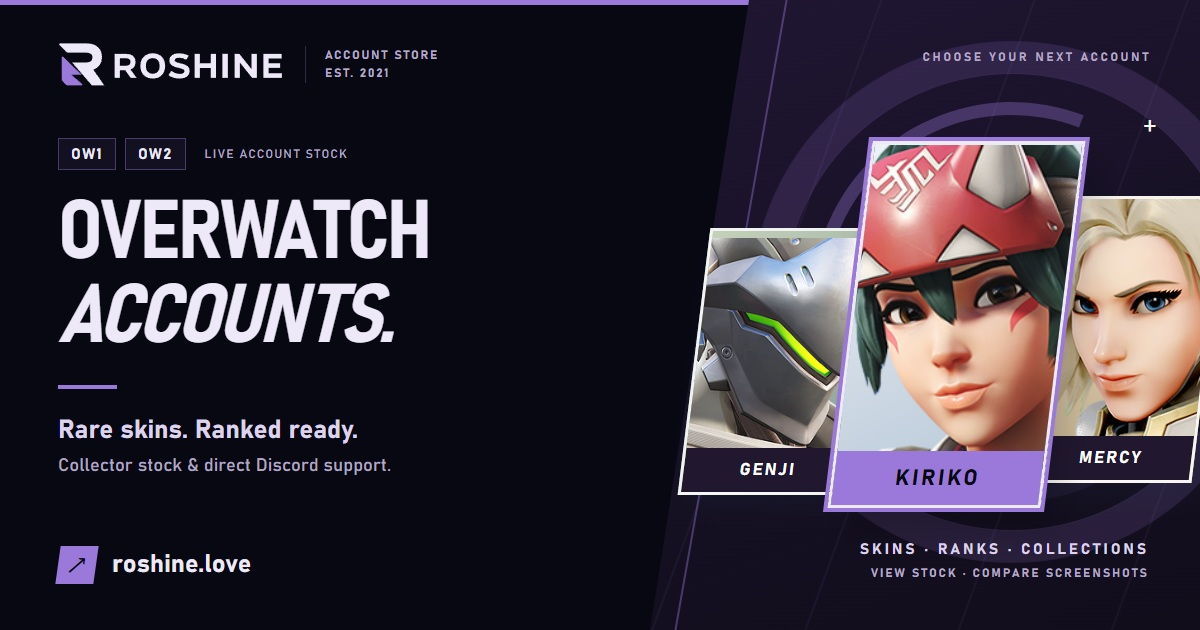
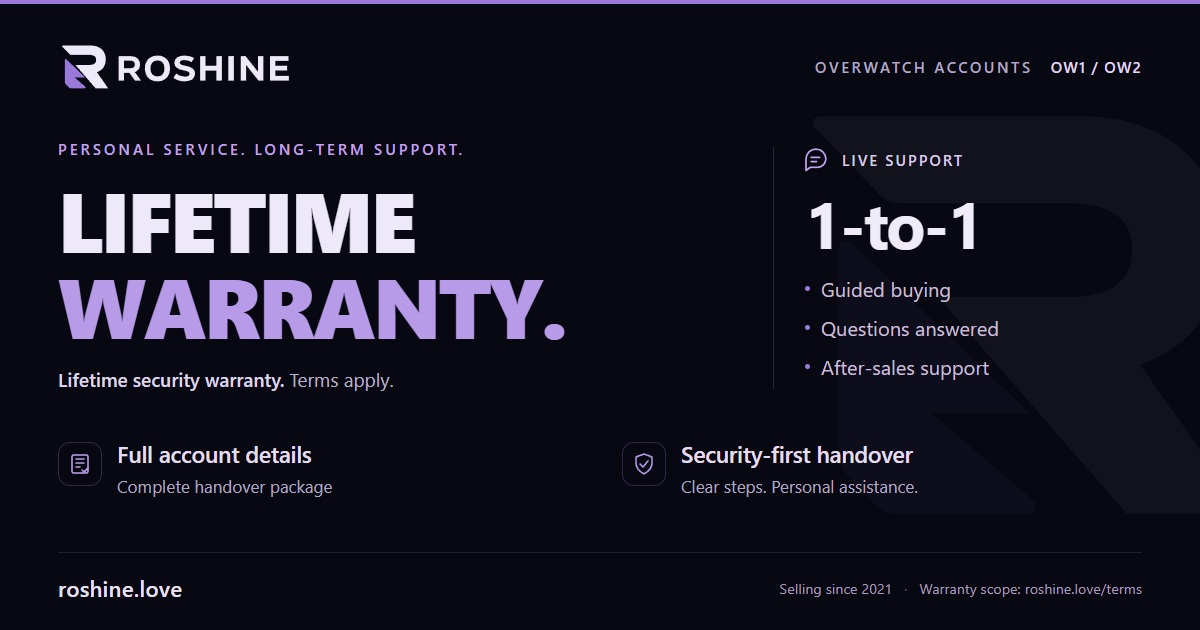
Publish service-first preview with lifetime warranty and one-to-one support

diff --git a/tools/social-card.html b/tools/social-card.html
@@ -2,71 +2,66 @@
 <html lang="en">
 <head>
 <meta charset="utf-8">
-<title>Roshine social preview artwork</title>
+<meta name="robots" content="noindex">
+<title>Roshine — personal service, lifetime security warranty</title>
 <style>
-* { box-sizing:border-box; }
-html,body { width:1200px; height:630px; margin:0; overflow:hidden; }
-body { background:#080813; color:#ede9f8; font-family:Bahnschrift,"Arial Narrow",Arial,sans-serif; }
-.art { position:relative; width:1200px; height:630px; overflow:hidden; }
-.edge { position:absolute; top:0; left:0; right:0; height:5px; background:#9b79db; }
-.header { position:absolute; left:55px; top:41px; display:flex; align-items:center; gap:15px; z-index:4; }
-.logo { width:228px; height:auto; object-fit:contain; }
-.wordmark { font-size:29px; letter-spacing:1.6px; font-weight:800; }
-.header small { border-left:1px solid #9b79db45; padding-left:19px; margin-left:7px; color:#b6a9c8; font-size:12px; line-height:1.55; font-weight:650; letter-spacing:1.8px; }
-.copy { position:absolute; top:138px; left:58px; z-index:4; }
-.versions { display:flex; align-items:center; gap:9px; margin-bottom:22px; }
-.version { padding:7px 12px 5px; border:1px solid #9b79db66; background:#9b79db12; font-size:15px; font-weight:700; letter-spacing:1.5px; }
-.versions .note { color:#b6a9c8; font-size:12px; letter-spacing:1.4px; margin-left:10px; }
-h1 { margin:0; font-size:82px; font-weight:900; font-stretch:condensed; letter-spacing:-1.8px; line-height:1.03; }
-h1 span { display:block; }
-h1 .second { font-style:italic; }
-.underline { margin-top:24px; width:59px; height:4px; background:#9b79db; }
-.lead { margin:26px 0 9px; color:#ddd3ed; font-size:26px; font-weight:650; }
-.detail { color:#b2a7c2; font-size:18px; margin:0; letter-spacing:.15px; }
-.footer { position:absolute; bottom:46px; left:58px; z-index:4; display:flex; align-items:center; gap:16px; }
-.arrow { display:grid; place-items:center; width:38px; height:38px; background:#9b79db; color:#080813; font-size:29px; line-height:1; transform:skewX(-8deg); }
-.domain { font-size:25px; letter-spacing:.3px; font-weight:700; }
-.stage { position:absolute; top:0; right:0; width:550px; height:630px; clip-path:polygon(18% 0,100% 0,100% 100%,0 100%); background:linear-gradient(160deg,#201633,#151022 62%,#110d1b); }
-.stage::before { content:""; position:absolute; inset:0; opacity:.12; background:repeating-linear-gradient(110deg,transparent 0 72px,rgba(155,121,219,.55) 73px 74px,transparent 75px 144px); }
-.stage::after { content:""; position:absolute; top:0; bottom:0; left:80px; width:2px; background:#9b79db66; transform:skewX(-10deg); }
-.arc { position:absolute; width:458px; height:458px; right:-41px; top:73px; border:1px solid #9b79db33; border-radius:50%; box-shadow:0 0 0 31px #9b79db08,0 0 0 32px #9b79db22; }
-.arc::after { content:""; position:absolute; inset:28px; border:13px solid #9b79db14; border-top-color:#9b79db55; border-right-color:transparent; border-radius:50%; transform:rotate(-24deg); }
-.stage-label { position:absolute; top:50px; right:49px; color:#b6a9c8; font-size:12px; font-weight:700; letter-spacing:2.7px; }
-.roster { position:absolute; width:515px; height:430px; top:137px; right:0; z-index:3; }
-.hero { position:absolute; overflow:hidden; transform:skewX(-7deg); border:3px solid rgba(255,255,255,.86); box-shadow:10px 15px 25px rgba(32,56,81,.12); }
-.hero img { position:absolute; object-fit:cover; transform:skewX(7deg); }
-.hero .name { position:absolute; bottom:0; left:0; width:100%; background:#21182f; color:white; text-align:center; font-size:17px; font-weight:800; letter-spacing:2px; padding:13px 0 11px; }
-.genji { left:9px; top:91px; width:174px; height:267px; background:linear-gradient(135deg,#c4d1ba,#899f97); }
-.genji img { width:228px; height:228px; left:-34px; top:7px; }
-.mercy { right:-9px; top:59px; width:168px; height:287px; background:linear-gradient(135deg,#ecdabc,#b9a684); }
-.mercy img { width:248px; height:248px; left:-34px; top:-1px; }
-.kiriko { left:165px; top:4px; width:213px; height:367px; background:linear-gradient(155deg,#edf2f6,#b4c4d5); border-color:#eee9f8; box-shadow:0 0 0 4px #9b79db,16px 26px 32px rgba(0,0,0,.19); z-index:4; }
-.kiriko img { width:324px; height:324px; left:-49px; top:1px; }
-.kiriko .name { background:#9b79db; color:#080813; font-size:22px; letter-spacing:2.8px; padding:15px 0 13px; }
-.corner { position:absolute; right:51px; bottom:45px; color:#b6a9c8; text-align:right; font-size:12px; font-weight:650; line-height:1.8; letter-spacing:2px; z-index:4; }
-.corner strong { display:block; color:#ddd3ed; font-size:15px; letter-spacing:3px; }
-.cross { position:absolute; right:43px; top:110px; color:#fff; font-size:28px; font-weight:300; }
+* { box-sizing: border-box; }
+html, body { width: 1200px; height: 630px; margin: 0; overflow: hidden; }
+body { background: #080813; color: #ede9f8; font-family: "Segoe UI", Arial, sans-serif; }
+.art { position: relative; isolation: isolate; width: 1200px; height: 630px; overflow: hidden; }
+.edge { position: absolute; inset: 0 0 auto; height: 4px; background: #9b79db; }
+.watermark { position: absolute; z-index: -1; width: 470px; height: 470px; right: -60px; top: 80px; opacity: .045; }
+.header { position: absolute; top: 43px; left: 58px; right: 58px; height: 48px; display: flex; align-items: center; justify-content: space-between; }
+.logo { width: 232px; height: auto; display: block; }
+.category { color: #b3a9c5; font-size: 15px; font-weight: 600; letter-spacing: 2.6px; }
+.category span { color: #e2d7f3; margin-left: 18px; letter-spacing: 1.2px; }
+.headline { position: absolute; left: 58px; top: 139px; width: 670px; }
+.eyebrow { margin: 0 0 17px; color: #c1a3ee; font-size: 15px; font-weight: 600; letter-spacing: 3px; }
+h1 { margin: 0; color: #eee9f9; font-size: 84px; font-weight: 800; line-height: 1.02; letter-spacing: -2.8px; }
+h1 span { display: block; }
+h1 .accent { color: #b89be8; }
+.scope { margin: 19px 0 0; color: #b9b0c7; font-size: 19px; line-height: 1.4; }
+.scope strong { font-weight: 500; color: #ded5ea; }
+.support { position: absolute; left: 773px; top: 147px; width: 369px; height: 242px; border-left: 1px solid #9b79db40; padding-left: 31px; }
+.support-top { display: flex; align-items: center; gap: 12px; margin-bottom: 17px; }
+.support-top svg { width: 25px; height: 25px; color: #c1a3ee; fill: none; stroke: currentColor; stroke-width: 1.65; stroke-linecap: round; stroke-linejoin: round; }
+.support-top span { color: #d9ccea; font-size: 15px; font-weight: 600; letter-spacing: 2px; }
+.one-to-one { color: #f0ebf9; font-size: 64px; font-weight: 700; letter-spacing: -2px; line-height: 1.05; margin: 0 0 19px; }
+.support-list { margin: 0; padding: 0; list-style: none; display: grid; gap: 12px; }
+.support-list li { display: flex; align-items: center; gap: 11px; color: #c9bfd7; font-size: 20px; line-height: 1.35; }
+.support-list li::before { content: ""; width: 5px; height: 5px; flex-shrink: 0; border-radius: 50%; background: #9b79db; }
+.features { position: absolute; left: 58px; right: 58px; top: 442px; display: grid; grid-template-columns: 1fr 1fr; gap: 44px; }
+.feature { display: flex; align-items: flex-start; gap: 15px; }
+.feature-icon { display: grid; place-items: center; width: 44px; height: 44px; flex-shrink: 0; border: 1px solid #9b79db45; border-radius: 12px; color: #b89be8; }
+.feature-icon svg { width: 24px; height: 24px; fill: none; stroke: currentColor; stroke-width: 1.6; stroke-linecap: round; stroke-linejoin: round; }
+.feature h2 { margin: -2px 0 6px; color: #e5ddef; font-size: 23px; font-weight: 600; line-height: 1.25; letter-spacing: -.3px; }
+.feature p { margin: 0; color: #b2a7c1; font-size: 17px; line-height: 1.4; }
+.footer { position: absolute; left: 58px; right: 58px; bottom: 27px; padding-top: 20px; border-top: 1px solid #a186c429; display: flex; align-items: center; justify-content: space-between; }
+.domain { color: #e9e1f3; font-size: 22px; font-weight: 600; letter-spacing: .3px; }
+.footer-note { color: #a89bb9; font-size: 14px; letter-spacing: .15px; }
+.footer-note span { margin: 0 12px; color: #635276; }
 </style>
 </head>
 <body>
-<main class="art">
-  <div class="edge"></div>
-  <header class="header"><img class="logo" src="../assets/roshine-wordmark.svg" alt="Roshine"><small>ACCOUNT STORE<br>EST. 2021</small></header>
-  <div class="copy">
-    <div class="versions"><span class="version">OW1</span><span class="version">OW2</span><span class="note">LIVE ACCOUNT STOCK</span></div>
-    <h1><span>OVERWATCH</span><span class="second">ACCOUNTS.</span></h1>
-    <div class="underline"></div>
-    <p class="lead">Rare skins. Ranked ready.</p>
-    <p class="detail">Collector stock &amp; direct Discord support.</p>
-  </div>
-  <div class="stage"><div class="arc"></div><span class="stage-label">CHOOSE YOUR NEXT ACCOUNT</span><span class="cross">+</span></div>
-  <div class="roster">
-    <div class="hero genji"><img src="../assets/social/genji.png" alt=""><span class="name">GENJI</span></div>
-    <div class="hero mercy"><img src="../assets/social/mercy.png" alt=""><span class="name">MERCY</span></div>
-    <div class="hero kiriko"><img src="../assets/social/kiriko.png" alt=""><span class="name">KIRIKO</span></div>
-  </div>
-  <div class="footer"><span class="arrow">↗</span><span class="domain">roshine.love</span></div>
-  <div class="corner"><strong>SKINS · RANKS · COLLECTIONS</strong>VIEW STOCK · COMPARE SCREENSHOTS</div>
+<main class="art" aria-label="Roshine Overwatch account store: lifetime security warranty, live one-to-one support, full account details and security-first handover">
+  <div class="edge" aria-hidden="true"></div>
+  <img class="watermark" src="../assets/logo.svg" alt="" aria-hidden="true">
+  <header class="header"><img class="logo" src="../assets/roshine-wordmark.svg" alt="Roshine"><div class="category">OVERWATCH ACCOUNTS<span>OW1 / OW2</span></div></header>
+  <section class="headline">
+    <p class="eyebrow">PERSONAL SERVICE. LONG-TERM SUPPORT.</p>
+    <h1><span>LIFETIME</span><span class="accent">WARRANTY.</span></h1>
+    <p class="scope"><strong>Lifetime security warranty.</strong> Terms apply.</p>
+  </section>
+  <section class="support" aria-label="Live one-to-one support">
+    <div class="support-top"><svg viewBox="0 0 24 24" aria-hidden="true"><path d="M20 11.5a8 8 0 0 1-8 8H5l-4 3V11.5a9.5 9.5 0 0 1 19 0Z"/><path d="M6 10h8M6 14h5"/></svg><span>LIVE SUPPORT</span></div>
+    <p class="one-to-one">1-to-1</p>
+    <ul class="support-list"><li>Guided buying</li><li>Questions answered</li><li>After-sales support</li></ul>
+  </section>
+  <section class="features" aria-label="Account handover">
+    <div class="feature"><span class="feature-icon"><svg viewBox="0 0 24 24" aria-hidden="true"><rect x="4" y="3" width="16" height="18" rx="2"/><path d="M8 7h8M8 11h8M8 15h4m2 3 2 2 4-4"/></svg></span><div><h2>Full account details</h2><p>Complete handover package</p></div></div>
+    <div class="feature"><span class="feature-icon"><svg viewBox="0 0 24 24" aria-hidden="true"><path d="m12 2 8 3v6c0 5-3.5 8.5-8 11-4.5-2.5-8-6-8-11V5Z"/><path d="m8 12 3 3 5-6"/></svg></span><div><h2>Security-first handover</h2><p>Clear steps. Personal assistance.</p></div></div>
+  </section>
+  <footer class="footer"><span class="domain">roshine.love</span><span class="footer-note">Selling since 2021<span>·</span>Warranty scope: roshine.love/terms</span></footer>
 </main>
 </body>
 </html>

diff --git a/index.html b/index.html
@@ -19,17 +19,17 @@
   <meta property="og:locale" content="en_US" />
   <meta property="og:title" content="Overwatch Accounts | Roshine" />
   <meta property="og:description" content="OW1 &amp; OW2 accounts, rare skins and ranked-ready stock. Browse screenshots and contact us on Discord." />
-  <meta property="og:image" content="https://roshine.love/assets/og-social-v3.jpg" />
-  <meta property="og:image:secure_url" content="https://roshine.love/assets/og-social-v3.jpg" />
+  <meta property="og:image" content="https://roshine.love/assets/og-social-v4.jpg" />
+  <meta property="og:image:secure_url" content="https://roshine.love/assets/og-social-v4.jpg" />
   <meta property="og:image:type" content="image/jpeg" />
   <meta property="og:image:width" content="1200" />
   <meta property="og:image:height" content="630" />
-  <meta property="og:image:alt" content="Roshine Overwatch account store — OW1 and OW2 inventory, rare skins and guided handover" />
+  <meta property="og:image:alt" content="Roshine — lifetime security warranty, live one-to-one buying and after-sales support, full account details and security-first handover. Terms apply." />
   <meta name="twitter:card" content="summary_large_image" />
   <meta name="twitter:title" content="Overwatch Accounts | Roshine" />
   <meta name="twitter:description" content="OW1 &amp; OW2 accounts, rare skins and ranked-ready stock. Browse screenshots and contact us on Discord." />
-  <meta name="twitter:image" content="https://roshine.love/assets/og-social-v3.jpg" />
-  <meta name="twitter:image:alt" content="Roshine Overwatch account store — OW1 and OW2 inventory, rare skins and guided handover" />
+  <meta name="twitter:image" content="https://roshine.love/assets/og-social-v4.jpg" />
+  <meta name="twitter:image:alt" content="Roshine — lifetime security warranty, live one-to-one buying and after-sales support, full account details and security-first handover. Terms apply." />
   <link rel="icon" href="/assets/favicon.svg?v=1" type="image/svg+xml">
   <link rel="icon" href="/assets/favicon-32.png?v=1" type="image/png" sizes="32x32">
   <link rel="apple-touch-icon" href="/assets/apple-touch-icon.png?v=1" sizes="180x180">

diff --git a/auth/index.html b/auth/index.html
@@ -21,15 +21,15 @@
   <meta property="og:locale" content="en_US" />
   <meta property="og:title" content="Battle.net Authenticator Code Generator — Roshine" />
   <meta property="og:description" content="Generate verification codes locally in your browser from the key supplied during account handover. Nothing is uploaded or stored." />
-  <meta property="og:image" content="https://roshine.love/assets/og-social-v3.jpg" />
+  <meta property="og:image" content="https://roshine.love/assets/og-social-v4.jpg" />
   <meta property="og:image:type" content="image/jpeg" />
   <meta property="og:image:width" content="1200" />
   <meta property="og:image:height" content="630" />
-  <meta property="og:image:alt" content="Roshine Overwatch account store — OW1 and OW2 inventory, rare skins and guided handover" />
+  <meta property="og:image:alt" content="Roshine — lifetime security warranty, live one-to-one buying and after-sales support, full account details and security-first handover. Terms apply." />
   <meta name="twitter:card" content="summary_large_image" />
   <meta name="twitter:title" content="Battle.net Authenticator Code Generator — Roshine" />
   <meta name="twitter:description" content="A browser-local verification code tool for keys supplied during account handover." />
-  <meta name="twitter:image" content="https://roshine.love/assets/og-social-v3.jpg" />
+  <meta name="twitter:image" content="https://roshine.love/assets/og-social-v4.jpg" />
   <link rel="icon" href="/assets/favicon.svg?v=1" type="image/svg+xml">
   <link rel="icon" href="/assets/favicon-32.png?v=1" type="image/png" sizes="32x32">
   <link rel="apple-touch-icon" href="/assets/apple-touch-icon.png?v=1" sizes="180x180">

diff --git a/terms/index.html b/terms/index.html
@@ -19,15 +19,15 @@
   <meta property="og:locale" content="en_US" />
   <meta property="og:title" content="Terms of Service — Roshine Account Store" />
   <meta property="og:description" content="Current terms for live inventory, Discord orders, payment confirmation, account handover, warranty and buyer responsibilities." />
-  <meta property="og:image" content="https://roshine.love/assets/og-social-v3.jpg" />
+  <meta property="og:image" content="https://roshine.love/assets/og-social-v4.jpg" />
   <meta property="og:image:type" content="image/jpeg" />
   <meta property="og:image:width" content="1200" />
   <meta property="og:image:height" content="630" />
-  <meta property="og:image:alt" content="Roshine Overwatch account store — OW1 and OW2 inventory, rare skins and guided handover" />
+  <meta property="og:image:alt" content="Roshine — lifetime security warranty, live one-to-one buying and after-sales support, full account details and security-first handover. Terms apply." />
   <meta name="twitter:card" content="summary_large_image" />
   <meta name="twitter:title" content="Terms of Service — Roshine Account Store" />
   <meta name="twitter:description" content="Inventory, ordering, delivery, warranty and buyer responsibility terms for Roshine purchases." />
-  <meta name="twitter:image" content="https://roshine.love/assets/og-social-v3.jpg" />
+  <meta name="twitter:image" content="https://roshine.love/assets/og-social-v4.jpg" />
   <link rel="icon" href="/assets/favicon.svg?v=1" type="image/svg+xml">
   <link rel="icon" href="/assets/favicon-32.png?v=1" type="image/png" sizes="32x32">
   <link rel="apple-touch-icon" href="/assets/apple-touch-icon.png?v=1" sizes="180x180">

diff --git a/privacy/index.html b/privacy/index.html
@@ -19,15 +19,15 @@
   <meta property="og:locale" content="en_US" />
   <meta property="og:title" content="Privacy Policy — Roshine Account Store" />
   <meta property="og:description" content="How the Roshine storefront handles browser preferences, order communication, payment providers and support records." />
-  <meta property="og:image" content="https://roshine.love/assets/og-social-v3.jpg" />
+  <meta property="og:image" content="https://roshine.love/assets/og-social-v4.jpg" />
   <meta property="og:image:type" content="image/jpeg" />
   <meta property="og:image:width" content="1200" />
   <meta property="og:image:height" content="630" />
-  <meta property="og:image:alt" content="Roshine Overwatch account store — OW1 and OW2 inventory, rare skins and guided handover" />
+  <meta property="og:image:alt" content="Roshine — lifetime security warranty, live one-to-one buying and after-sales support, full account details and security-first handover. Terms apply." />
   <meta name="twitter:card" content="summary_large_image" />
   <meta name="twitter:title" content="Privacy Policy — Roshine Account Store" />
   <meta name="twitter:description" content="A clear summary of privacy and data handling across the Roshine storefront and support process." />
-  <meta name="twitter:image" content="https://roshine.love/assets/og-social-v3.jpg" />
+  <meta name="twitter:image" content="https://roshine.love/assets/og-social-v4.jpg" />
   <link rel="icon" href="/assets/favicon.svg?v=1" type="image/svg+xml">
   <link rel="icon" href="/assets/favicon-32.png?v=1" type="image/png" sizes="32x32">
   <link rel="apple-touch-icon" href="/assets/apple-touch-icon.png?v=1" sizes="180x180">

diff --git a/404.html b/404.html
@@ -11,12 +11,12 @@
   <meta property="og:site_name" content="Roshine Account Store" />
   <meta property="og:title" content="This page is not in stock — Roshine" />
   <meta property="og:description" content="Return to the live account inventory or ask Roshine support about the account you were looking for." />
-  <meta property="og:image" content="https://roshine.love/assets/og-social-v3.jpg" />
+  <meta property="og:image" content="https://roshine.love/assets/og-social-v4.jpg" />
   <meta property="og:image:type" content="image/jpeg" />
   <meta property="og:image:width" content="1200" />
   <meta property="og:image:height" content="630" />
   <meta name="twitter:card" content="summary_large_image" />
-  <meta name="twitter:image" content="https://roshine.love/assets/og-social-v3.jpg" />
+  <meta name="twitter:image" content="https://roshine.love/assets/og-social-v4.jpg" />
   <link rel="icon" href="/assets/favicon.svg?v=1" type="image/svg+xml">
   <link rel="icon" href="/assets/favicon-32.png?v=1" type="image/png" sizes="32x32">
   <link rel="apple-touch-icon" href="/assets/apple-touch-icon.png?v=1" sizes="180x180">
@@ -27,7 +27,7 @@
   </style>
   <link rel="stylesheet" href="/assets/site-footer.css?v=1">
   <link rel="stylesheet" href="/assets/site-chrome.css?v=1">
-  <meta property="og:image:alt" content="Roshine Overwatch account store — OW1 and OW2 inventory, rare skins and guided handover">
+  <meta property="og:image:alt" content="Roshine — lifetime security warranty, live one-to-one buying and after-sales support, full account details and security-first handover. Terms apply.">
 </head>
 <body class="rf-error-page">
   <main class="card">

diff --git a/acc_details/index.html b/acc_details/index.html
@@ -11,7 +11,7 @@
   <link rel="canonical" href="https://roshine.love/acc_details/">
   <meta property="og:title" content="Account Details | Roshine">
   <meta property="og:description" content="Explore recorded Overwatch account skins, currencies and statistics by stock ID.">
-  <meta property="og:image" content="https://roshine.love/assets/og-social-v3.jpg">
+  <meta property="og:image" content="https://roshine.love/assets/og-social-v4.jpg">
   <title>Account Details · Roshine</title>
   <link rel="icon" href="/assets/favicon.svg?v=1" type="image/svg+xml">
   <link rel="icon" href="/assets/favicon-32.png?v=1" type="image/png" sizes="32x32">
@@ -45,9 +45,9 @@
   <meta property="og:image:type" content="image/jpeg">
   <meta property="og:image:width" content="1200">
   <meta property="og:image:height" content="630">
-  <meta property="og:image:alt" content="Roshine Overwatch account store — OW1 and OW2 inventory, rare skins and guided handover">
+  <meta property="og:image:alt" content="Roshine — lifetime security warranty, live one-to-one buying and after-sales support, full account details and security-first handover. Terms apply.">
   <meta name="twitter:card" content="summary_large_image">
-  <meta name="twitter:image" content="https://roshine.love/assets/og-social-v3.jpg">
+  <meta name="twitter:image" content="https://roshine.love/assets/og-social-v4.jpg">
 </head>
 <body>
   <div class="scanlines" aria-hidden="true"></div>

diff --git a/tools/SOCIAL-CARD.md b/tools/SOCIAL-CARD.md
@@ -4,13 +4,20 @@ The 1200 × 630 JPEG is rendered from social-card.html; layout and copy stay edi
 Set PLAYWRIGHT_MODULE if Playwright is installed outside this repository.
 Set CHROME_EXECUTABLE to use an existing Chrome installation.
 
-Run node tools/render-social-card.cjs to regenerate assets/og-social-v3.jpg.
-The renderer also refreshes the legacy og-social-v2.jpg / og-social.jpg / og.jpg aliases.
-The artwork uses the approved path-only Roshine wordmark, Bahnschrift with Arial fallbacks,
-and existing Blizzard hero portraits. The dark violet palette matches the public website.
-Portraits are decorative, not account screenshots.
+Run node tools/render-social-card.cjs to regenerate assets/og-social-v4.jpg.
+The renderer also refreshes the legacy og-social-v3.jpg / og-social-v2.jpg / og-social.jpg / og.jpg aliases.
+The service-first artwork uses the approved path-only Roshine wordmark, Segoe UI with Arial fallbacks,
+and the site's dark violet palette. It highlights lifetime security warranty (terms apply),
+live one-to-one buying / questions / after-sales support, full account details and security-first handover.
+There are no invented testimonials, online-now indicators, 24/7 claims or guaranteed ban-free claims.
 
-Portrait source URLs (resolved through OverFast's hero metadata):
+For a draft, set `SOCIAL_CARD_OUTPUT` to a local JPEG path before rendering. This leaves every public
+preview image and legacy alias untouched. The renderer checks image loading, 1200 × 630 dimensions
+and nonoverlapping layout bounds. The approved service-first version uses the fresh v4 URL in
+all six pages' Open Graph and Twitter metadata. Future artwork changes should use another fresh
+versioned preview URL so new shares do not reuse old image caches.
+
+Historical hero portrait source URLs (not used in the new service-first artwork):
 
 - Kiriko: https://d15f34w2p8l1cc.cloudfront.net/overwatch/408603fe037e8576078eaac5eab2fb251489ced4003b11f5f522776d43d0b83d.png
 - Genji: https://d15f34w2p8l1cc.cloudfront.net/overwatch/156b12c20b1aea872c1eeb5bb37a7de1047b2ab30ecefd0663a8925badde1ea8.png
